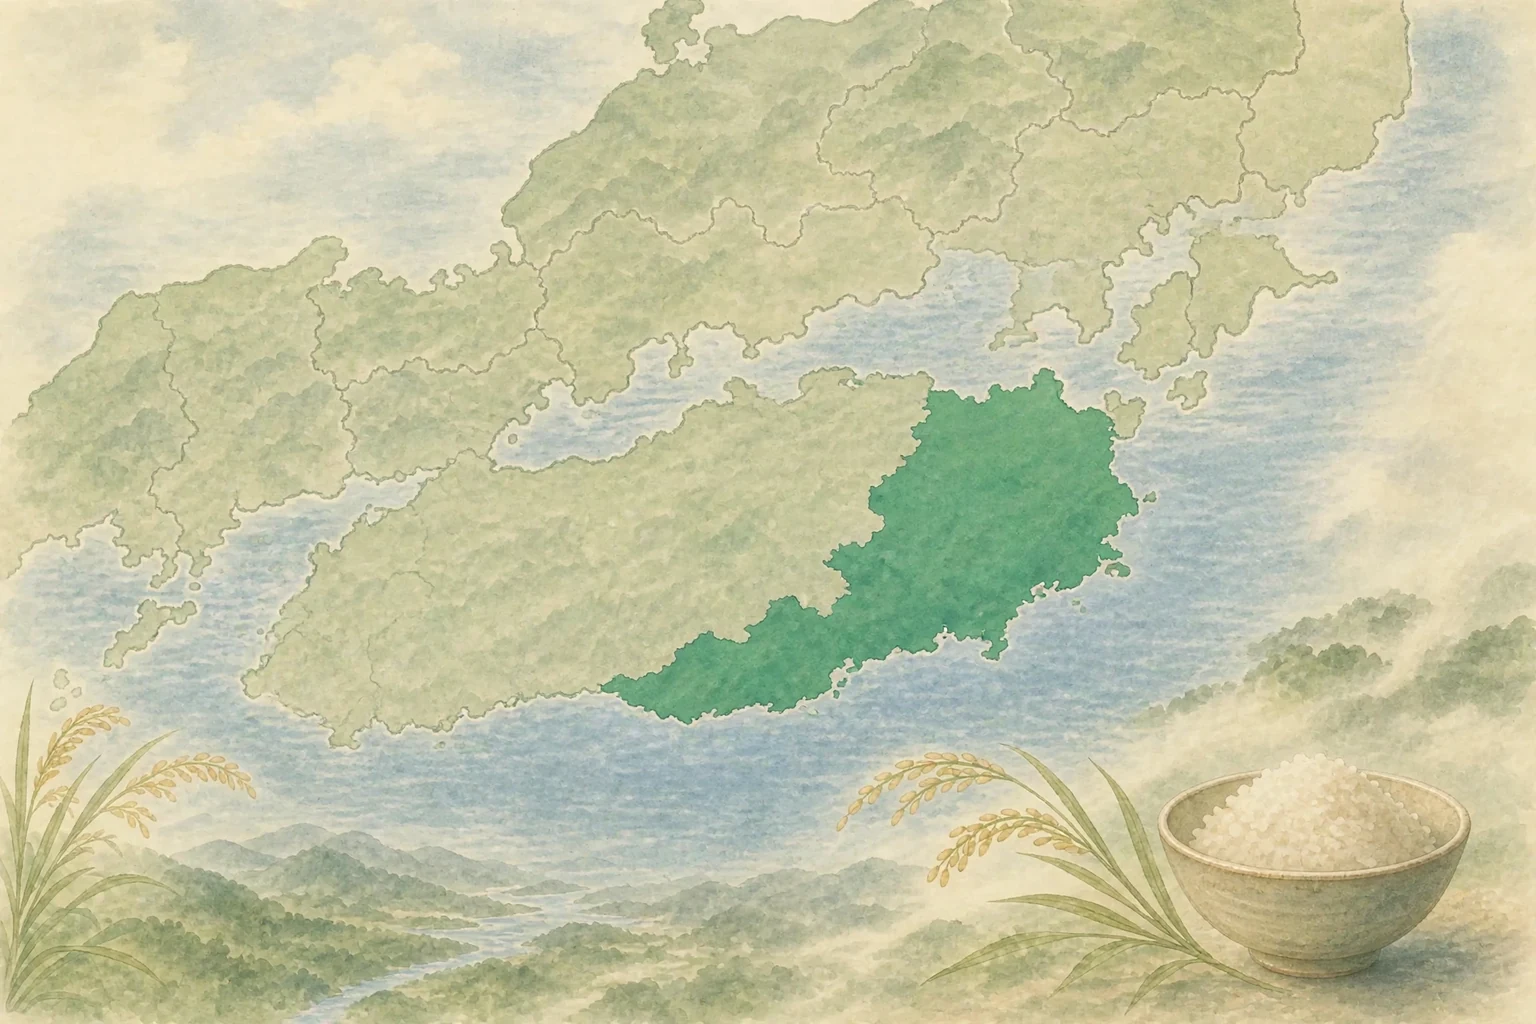
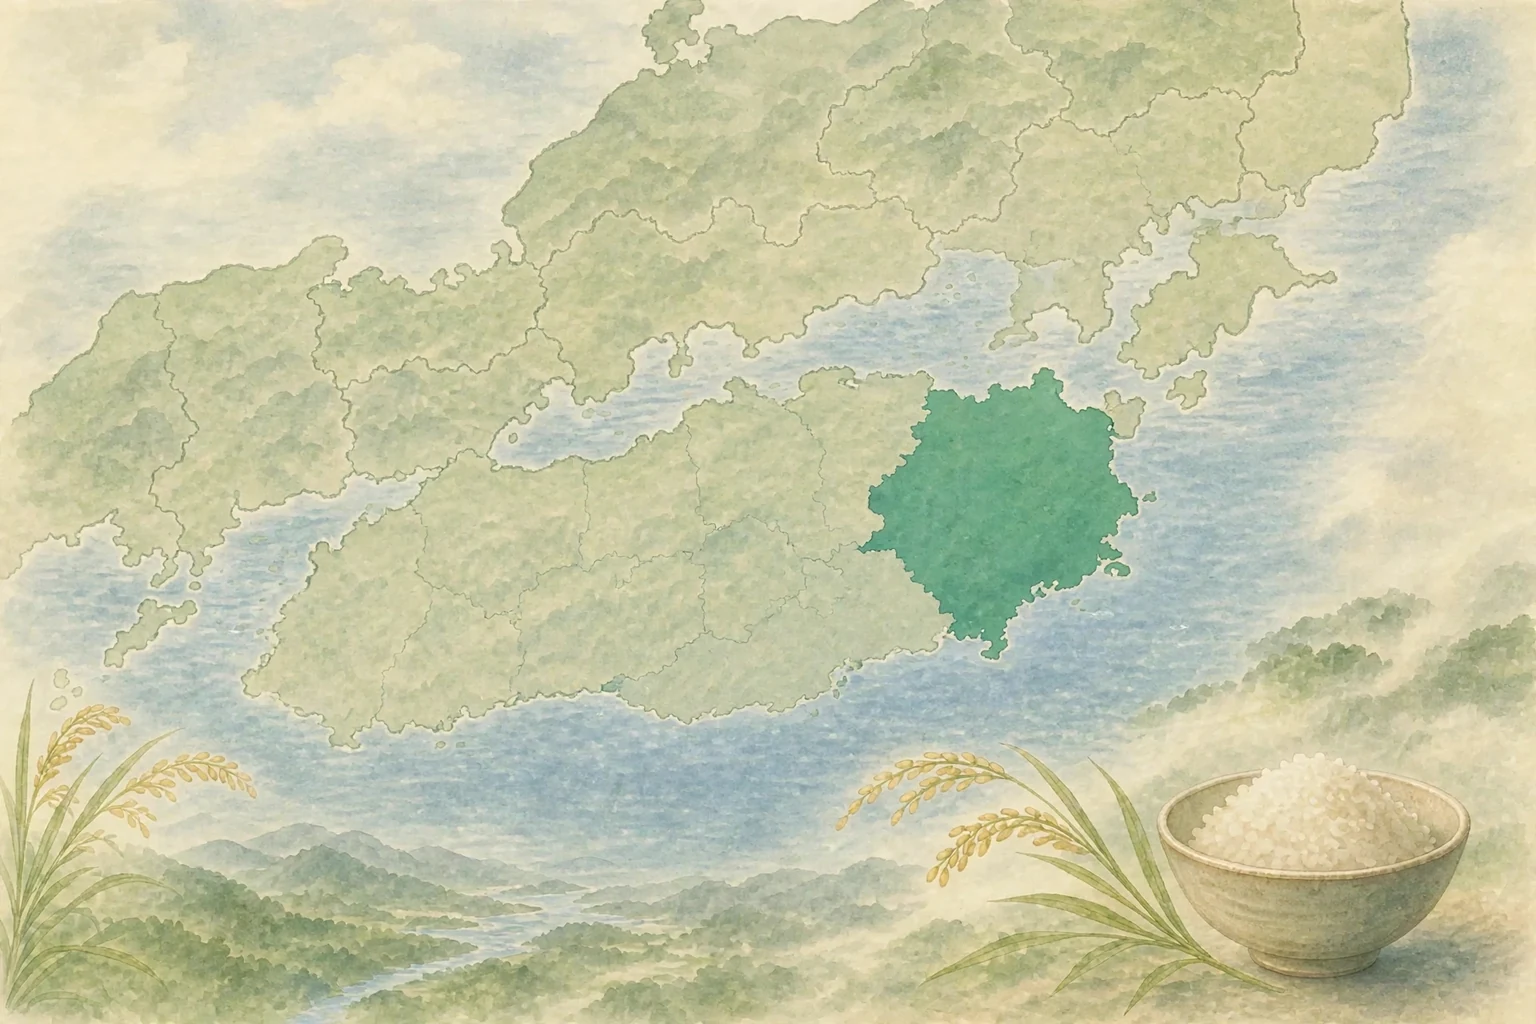
v1.21.4: 産地画2件の直し方を差し替え（徳島・熊本）

diff --git a/docs/10-changelog.md b/docs/10-changelog.md
@@ -5,6 +5,7 @@
 見出し日付は発版日（`YYYY-MM-DD`）。旧版は VERSION を上げた commit 日で遡及記入。
 
 ## Unreleased
+- 産地画2件の直し方を差し替えた：前版の描き直しでは、直す範囲の周辺の地形まで変わってしまっていた。徳島県は、四国4県の境が読める構図で改めて描き、色づけは四国の東端に置いた。熊本県は、元の画をそのまま保ち、天草諸島の塊に海峡だけを切り分けて諸島らしくした（変更は天草の部分のみ）
 - 産地画の地理の誤りを2件修正：徳島県の画は、徳島が四国から離れた島のように描かれていたため、四国の東端として陸続きに描き直した。熊本県の画は、天草諸島が一塊の陸地に見えたため、大小の島が海峡を隔てて散らばる諸島として描き直した。全産地画の点検で見つかった修正で、画風と構図は従来のものを保っている
 - 長崎県の3銘柄に専用の銘柄画を新設：なつほのか（夏の棚田と海）、にこまる（実りの秋の稲穂）、ヒノヒカリ（長崎産）（港町の朝の食卓）。これまで産地画の流用だったものを、各銘柄の持ち味に合わせた水彩画に差し替えた。銘柄画のある銘柄は14銘柄になった
 - 詳細ページの頁頭をサイト左端に統一：産地・特集・銘柄・料理・銘柄くらべの各詳細ページで、パンくずと見出しが中央の閲覧欄（40rem）に寄っていたのを、索引ページと同じくサイト幅の左端へ戻した。本文の閲覧欄レイアウトは変更なし
